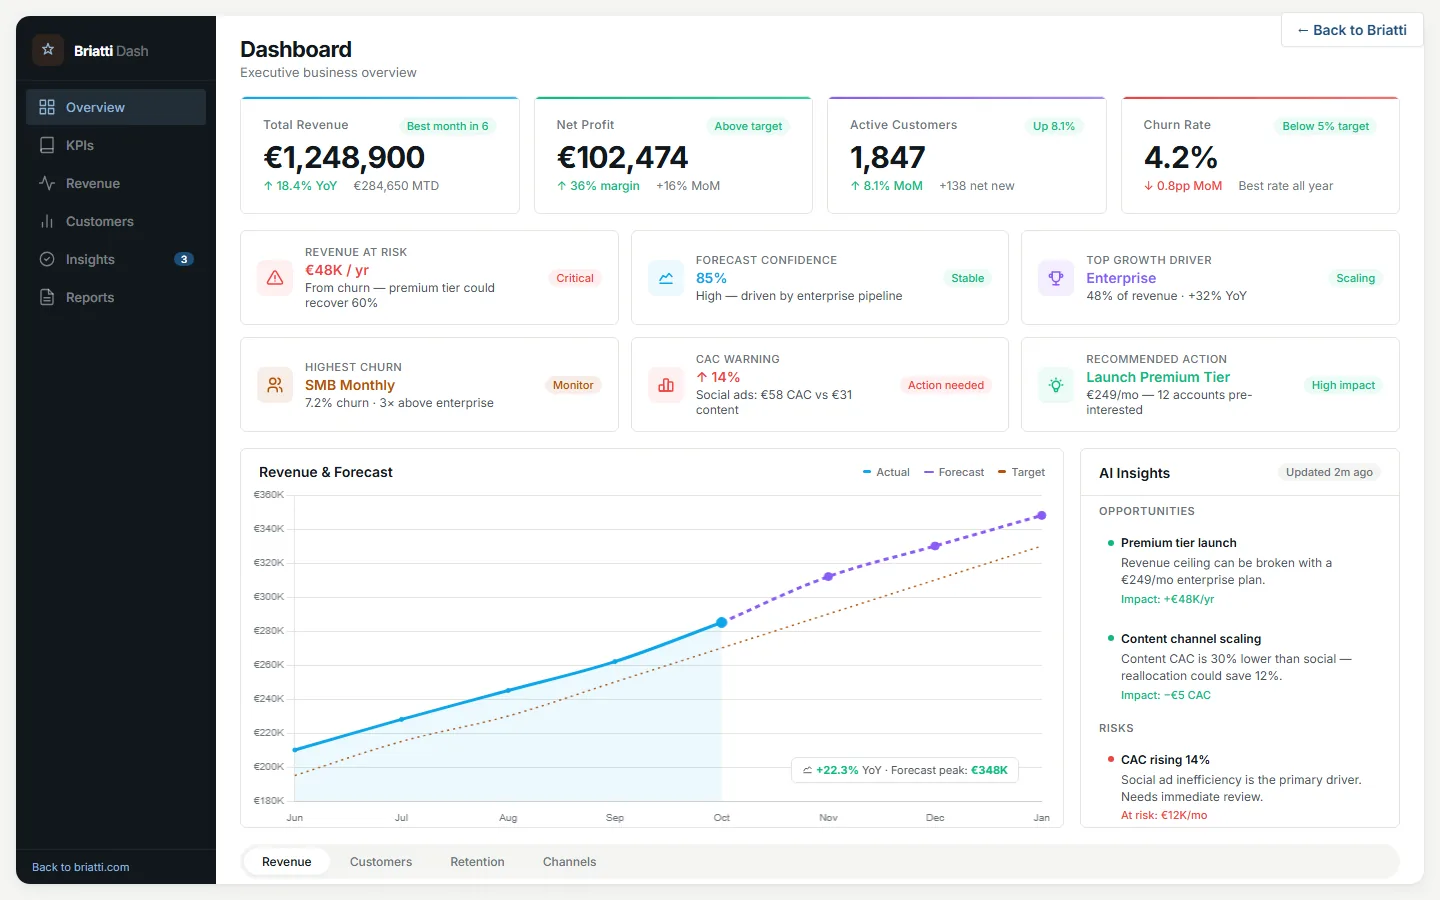
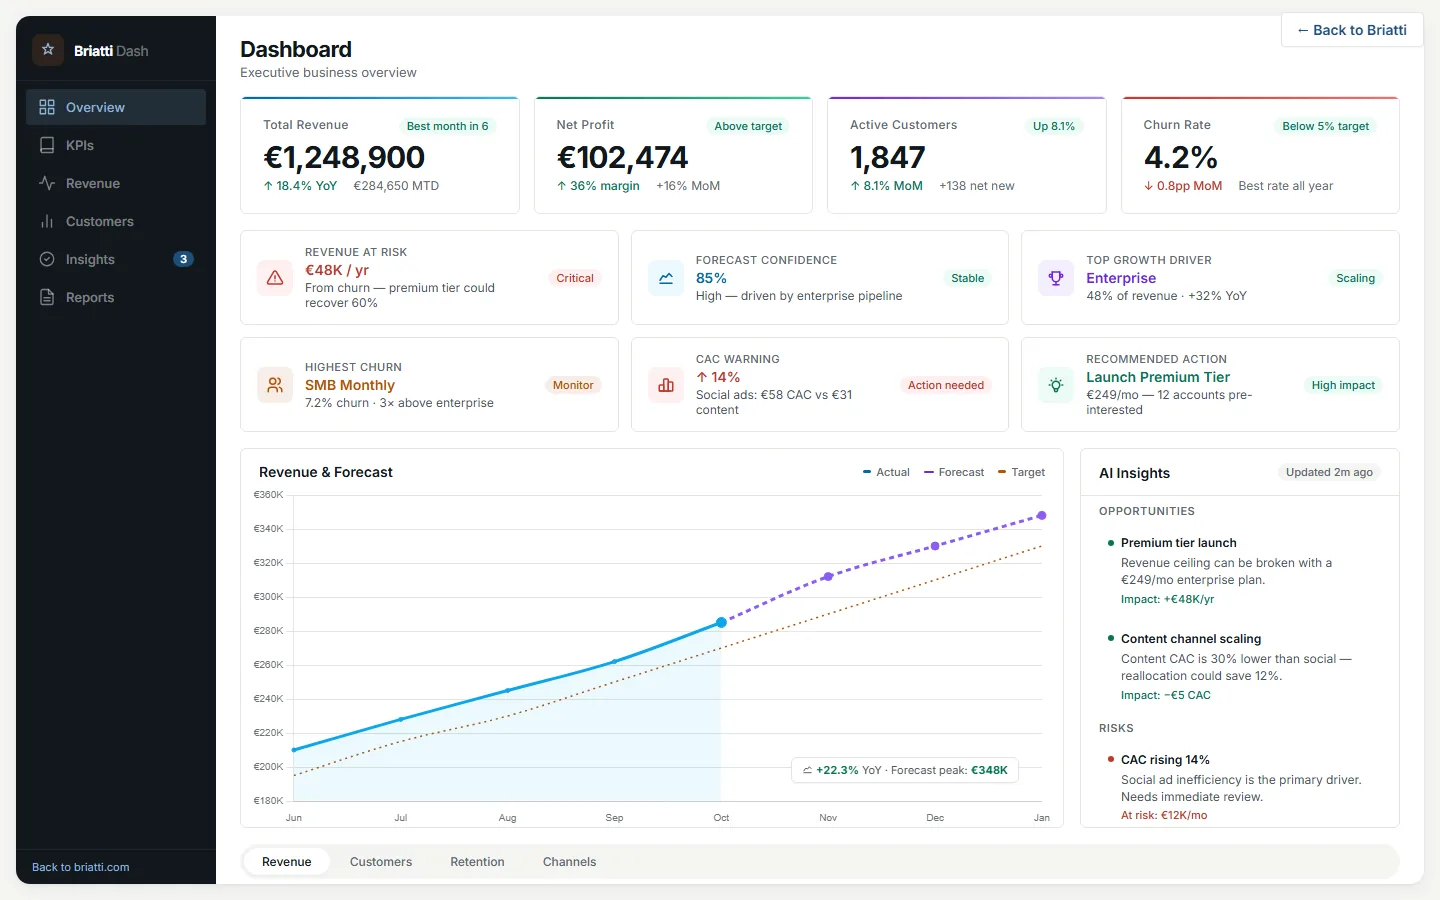
fix: raise the dashboard's smallest text above the legibility floor
Ten declarations sat at 10px, one at 9px, one at 7px, covering badges,
calendar day labels, chart annotations, filter buttons and legend text.
They now sit at 11px and 10px, which is the floor for text that has to be
read rather than glanced at.

The screenshot on the landing page is regenerated from this build.

diff --git a/demo.html b/demo.html
@@ -47,7 +47,7 @@
     .sb-item:hover { background:var(--sidebar-hover); color:rgba(255,255,255,.7); }
     .sb-item.active { background:var(--sidebar-active); color:var(--accent-on-dark); }
     .sb-item svg { width:18px; height:18px; flex-shrink:0; }
-    .sb-item .sb-badge { margin-left:auto; font-size:10px; padding:1px 7px; border-radius:100px; background:var(--accent); color:#fff; font-weight:600; }
+    .sb-item .sb-badge { margin-left:auto; font-size:11px; padding:1px 7px; border-radius:100px; background:var(--accent); color:#fff; font-weight:600; }
     .sb-footer { padding:10px 16px; border-top:1px solid rgba(255,255,255,.06); font-size:11px; color:rgba(255,255,255,.25); }
     .sb-back-link { color:var(--accent-on-dark); text-decoration:none; transition:opacity .15s; }
     .sb-back-link:hover { opacity:.7; }
@@ -82,11 +82,11 @@
     .dp-nav button { width:26px; height:26px; border-radius:50%; border:none; background:transparent; cursor:pointer; display:flex; align-items:center; justify-content:center; color:var(--text2); font-size:14px; transition:all .1s; }
     .dp-nav button:hover { background:var(--hover); color:var(--text); }
     .dp-days { display:grid; grid-template-columns:repeat(7,1fr); gap:2px; text-align:center; }
-    .dp-days .dp-dow { font-size:10px; font-weight:600; color:var(--text3); text-transform:uppercase; padding:4px 0; }
+    .dp-days .dp-dow { font-size:11px; font-weight:600; color:var(--text3); text-transform:uppercase; padding:4px 0; }
     .dp-day { aspect-ratio:1; display:flex; align-items:center; justify-content:center; border-radius:50%; font-size:12px; font-weight:500; color:var(--text); cursor:pointer; transition:all .1s; border:none; background:transparent; font-family:inherit; flex-direction:column; line-height:1.1; }
     .dp-day:hover { background:var(--hover); }
     .dp-day.range-start:hover, .dp-day.range-end:hover { background:var(--accent); }
-    .dp-day .dp-label { font-size:7px; font-weight:600; text-transform:uppercase; letter-spacing:.04em; opacity:0; transition:opacity .1s; margin-top:1px; }
+    .dp-day .dp-label { font-size:11px; font-weight:600; text-transform:uppercase; letter-spacing:.04em; opacity:0; transition:opacity .1s; margin-top:1px; }
     .dp-day.range-start .dp-label, .dp-day.range-end .dp-label { opacity:1; }
     .dp-day.range-start .dp-label { color:#fff; }
     .dp-day.range-end .dp-label { color:#fff; }
@@ -299,7 +299,7 @@
       .chart-hdr h3 { font-size:13px; }
       .chart-hdr .legend { gap:8px; }
       .chart-body { padding:4px 8px 0; }
-      .chart-annotation { bottom:12px; right:12px; font-size:10px; padding:4px 8px; }
+      .chart-annotation { bottom:12px; right:12px; font-size:11px; padding:4px 8px; }
       .insights-panel { max-height:200px; }
       .insights-hdr { padding:12px 14px; }
       .insights-hdr h3 { font-size:13px; }
@@ -314,7 +314,7 @@
       .seg-btn { padding:5px 12px; font-size:11px; }
       .filter-row { flex-direction:column; align-items:flex-start; gap:6px; }
       .filter-group { flex-wrap:wrap; }
-      .filter-opt { padding:4px 9px; font-size:10px; }
+      .filter-opt { padding:4px 9px; font-size:11px; }
       .report-grid { grid-template-columns:1fr; }
       .report-card { padding:14px 16px; }
       table.export-table { display:block; overflow-x:auto; white-space:nowrap; font-size:12px; }
@@ -328,7 +328,7 @@
       .h-left h1 { font-size:15px; }
       .h-left .sub { display:none; }
       .h-right { gap:3px; }
-      .h-btn { padding:3px 6px; font-size:10px; }
+      .h-btn { padding:3px 6px; font-size:11px; }
       .h-btn svg { width:10px; height:10px; }
       .hamburger { width:30px; height:30px; }
       .scroll { padding:8px 8px 12px; gap:10px; }
@@ -338,31 +338,31 @@
       .kpi-value { font-size:20px; }
       .kpi-value.lg { font-size:22px; }
       .kpi-label { font-size:11px; }
-      .kpi-note { font-size:10px; padding:1px 6px; }
+      .kpi-note { font-size:11px; padding:1px 6px; }
       .kpi-change { font-size:11px; }
       .di-bar { gap:8px; }
       .di-card { padding:10px; gap:8px; }
       .di-icon { width:26px; height:26px; font-size:12px; }
       .di-body .di-value { font-size:12px; }
       .di-sub { font-size:11px; }
-      .di-tag { font-size:10px; padding:1px 5px; }
+      .di-tag { font-size:11px; padding:1px 5px; }
       .main-analytics { min-height:240px; gap:10px; }
       .chart-card { min-height:140px; }
       .chart-hdr { padding:10px 10px 0; flex-direction:column; align-items:flex-start; }
-      .chart-hdr .legend span { font-size:10px; }
+      .chart-hdr .legend span { font-size:11px; }
       .chart-body { padding:2px 6px 0; }
-      .chart-annotation { bottom:6px; right:6px; font-size:9px; padding:2px 6px; max-width:calc(100% - 12px); }
+      .chart-annotation { bottom:6px; right:6px; font-size:11px; padding:2px 6px; max-width:calc(100% - 12px); }
       .insights-panel { max-height:160px; }
       .insights-hdr { padding:10px; }
       .insights-scroll { padding:4px 8px; }
-      .isect-title { font-size:10px; }
+      .isect-title { font-size:11px; }
       .iitem { padding:6px 8px; }
       .iitem .ii-title { font-size:11px; }
       .iitem .ii-desc { font-size:11px; margin-left:10px; }
       .diag-cards { grid-template-columns:1fr; }
       .diag-card { padding:10px; }
       .diag-card .dc-value { font-size:16px; }
-      .seg-btn { padding:4px 9px; font-size:10px; }
+      .seg-btn { padding:4px 9px; font-size:11px; }
       .bottom-sect .seg-control { justify-content:center; }
       .report-card { padding:12px; }
       .report-card h4 { font-size:13px; }
